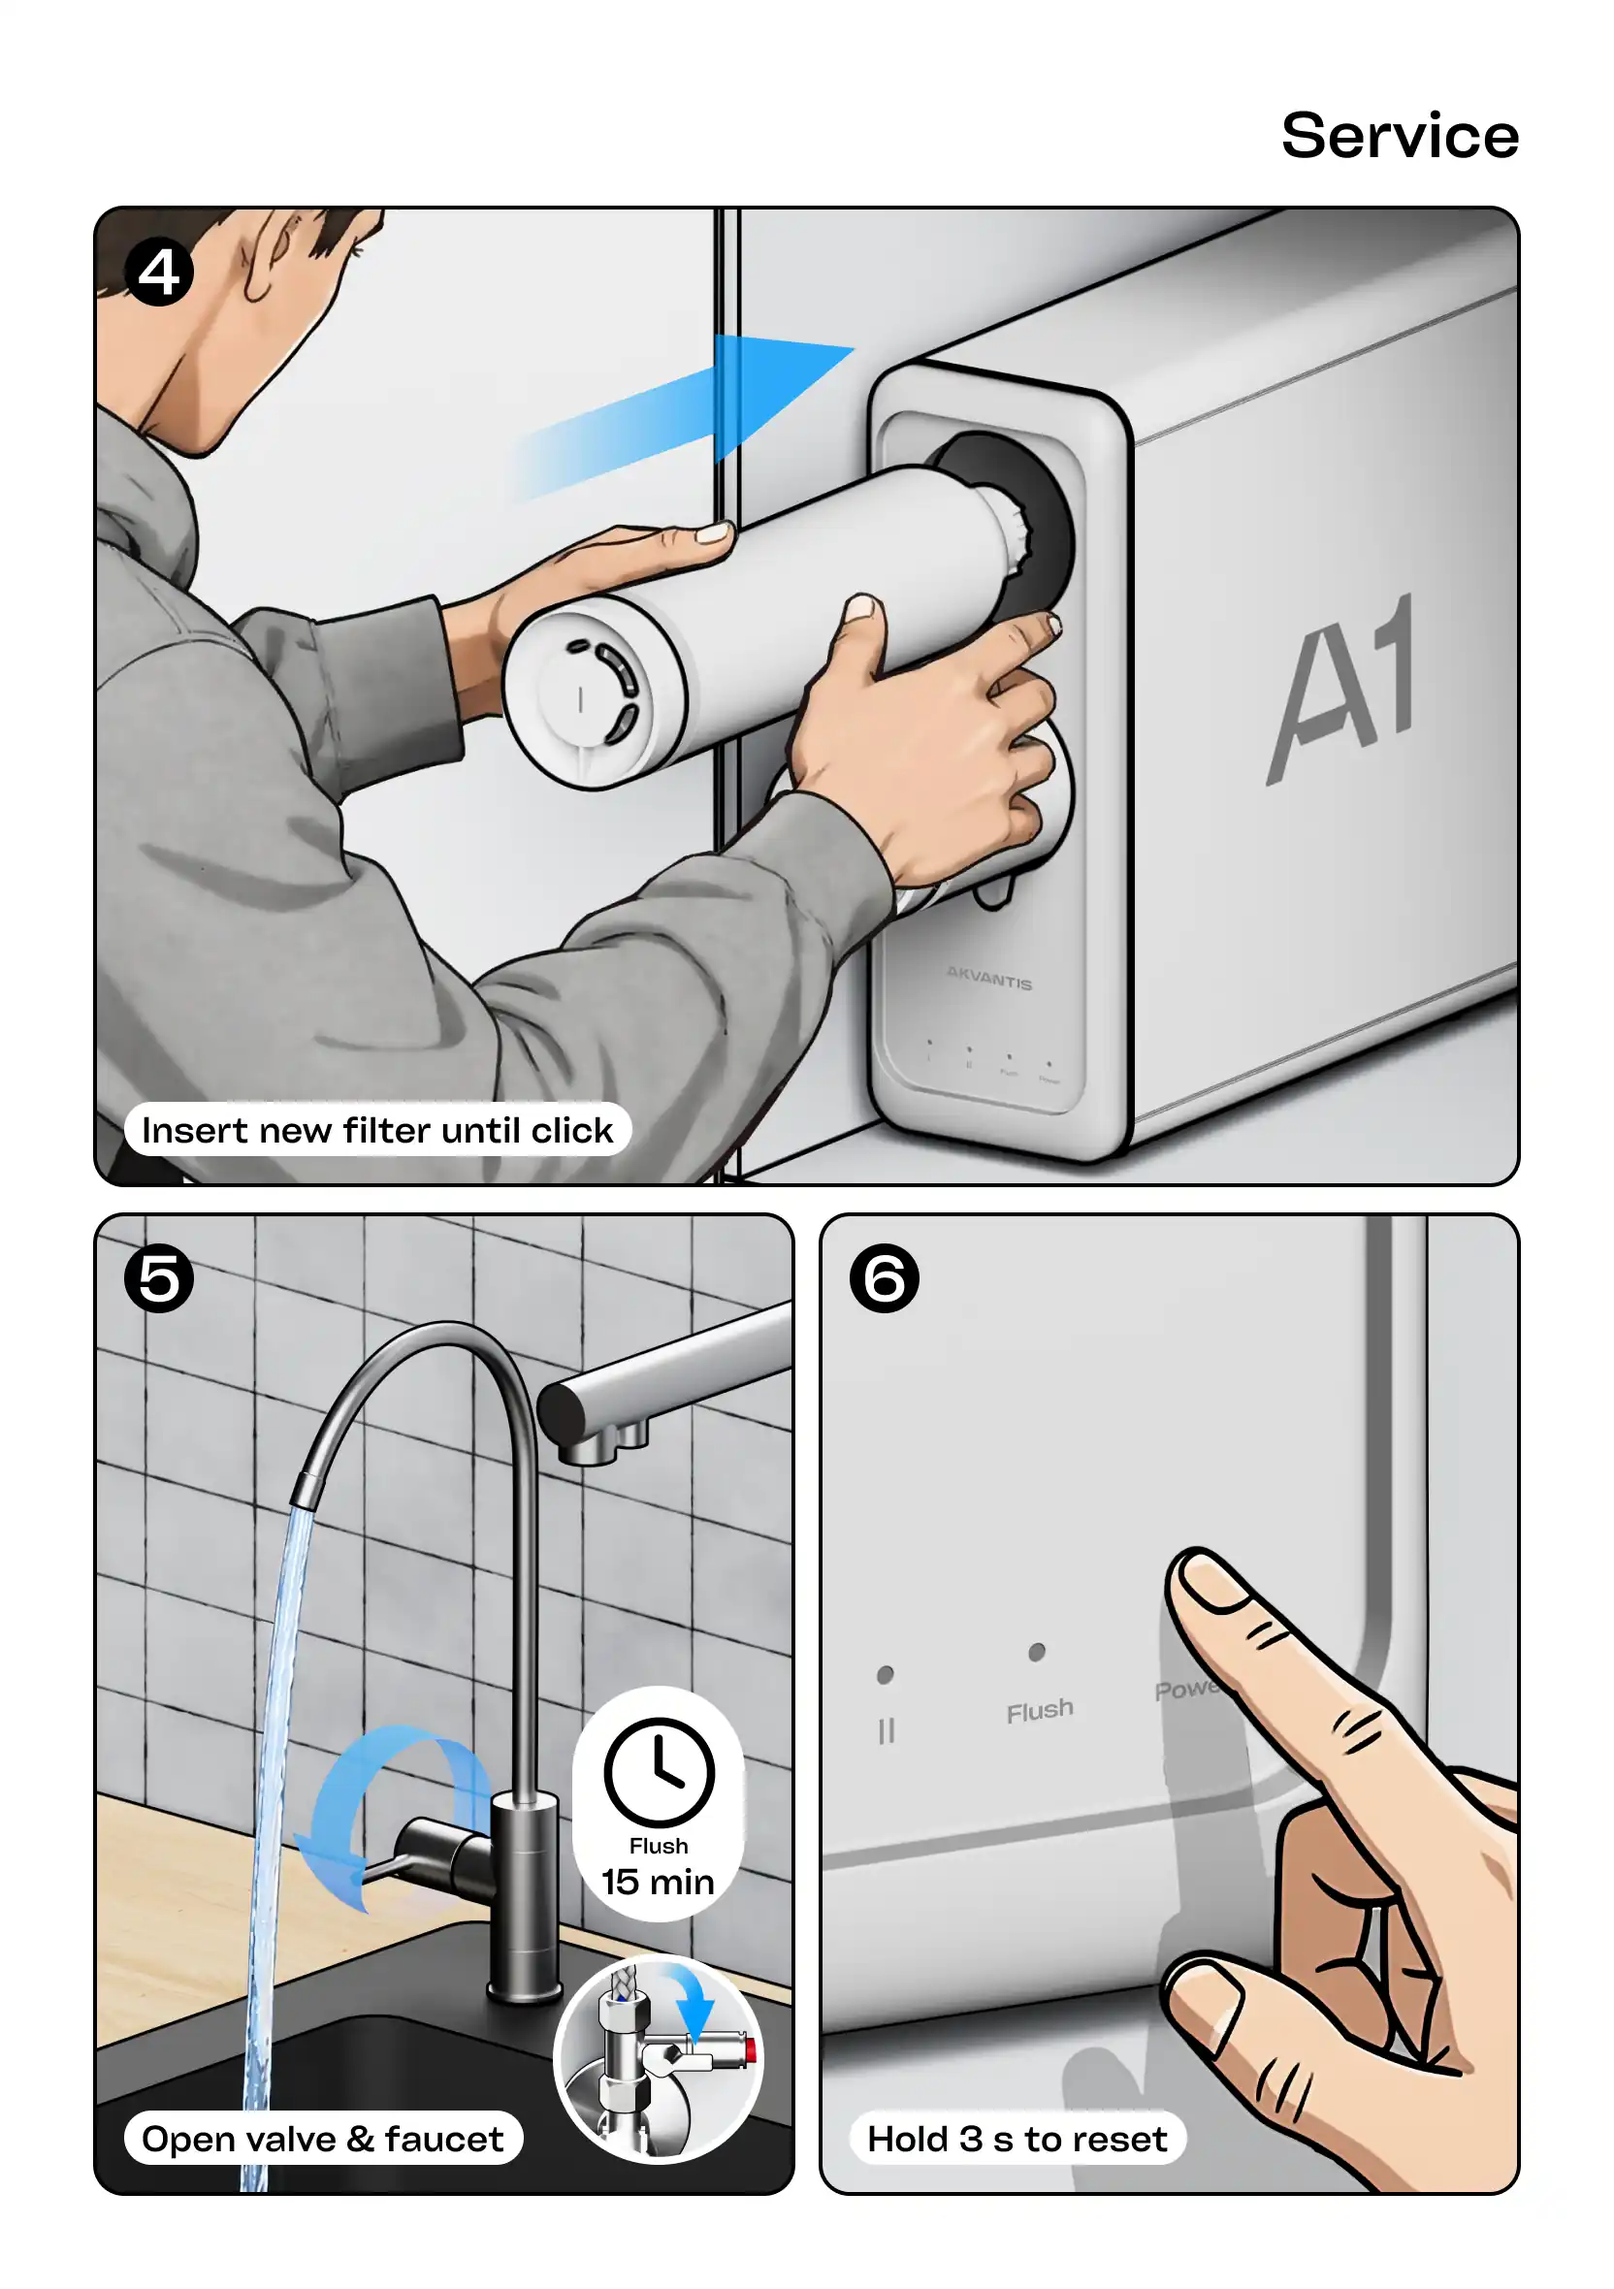
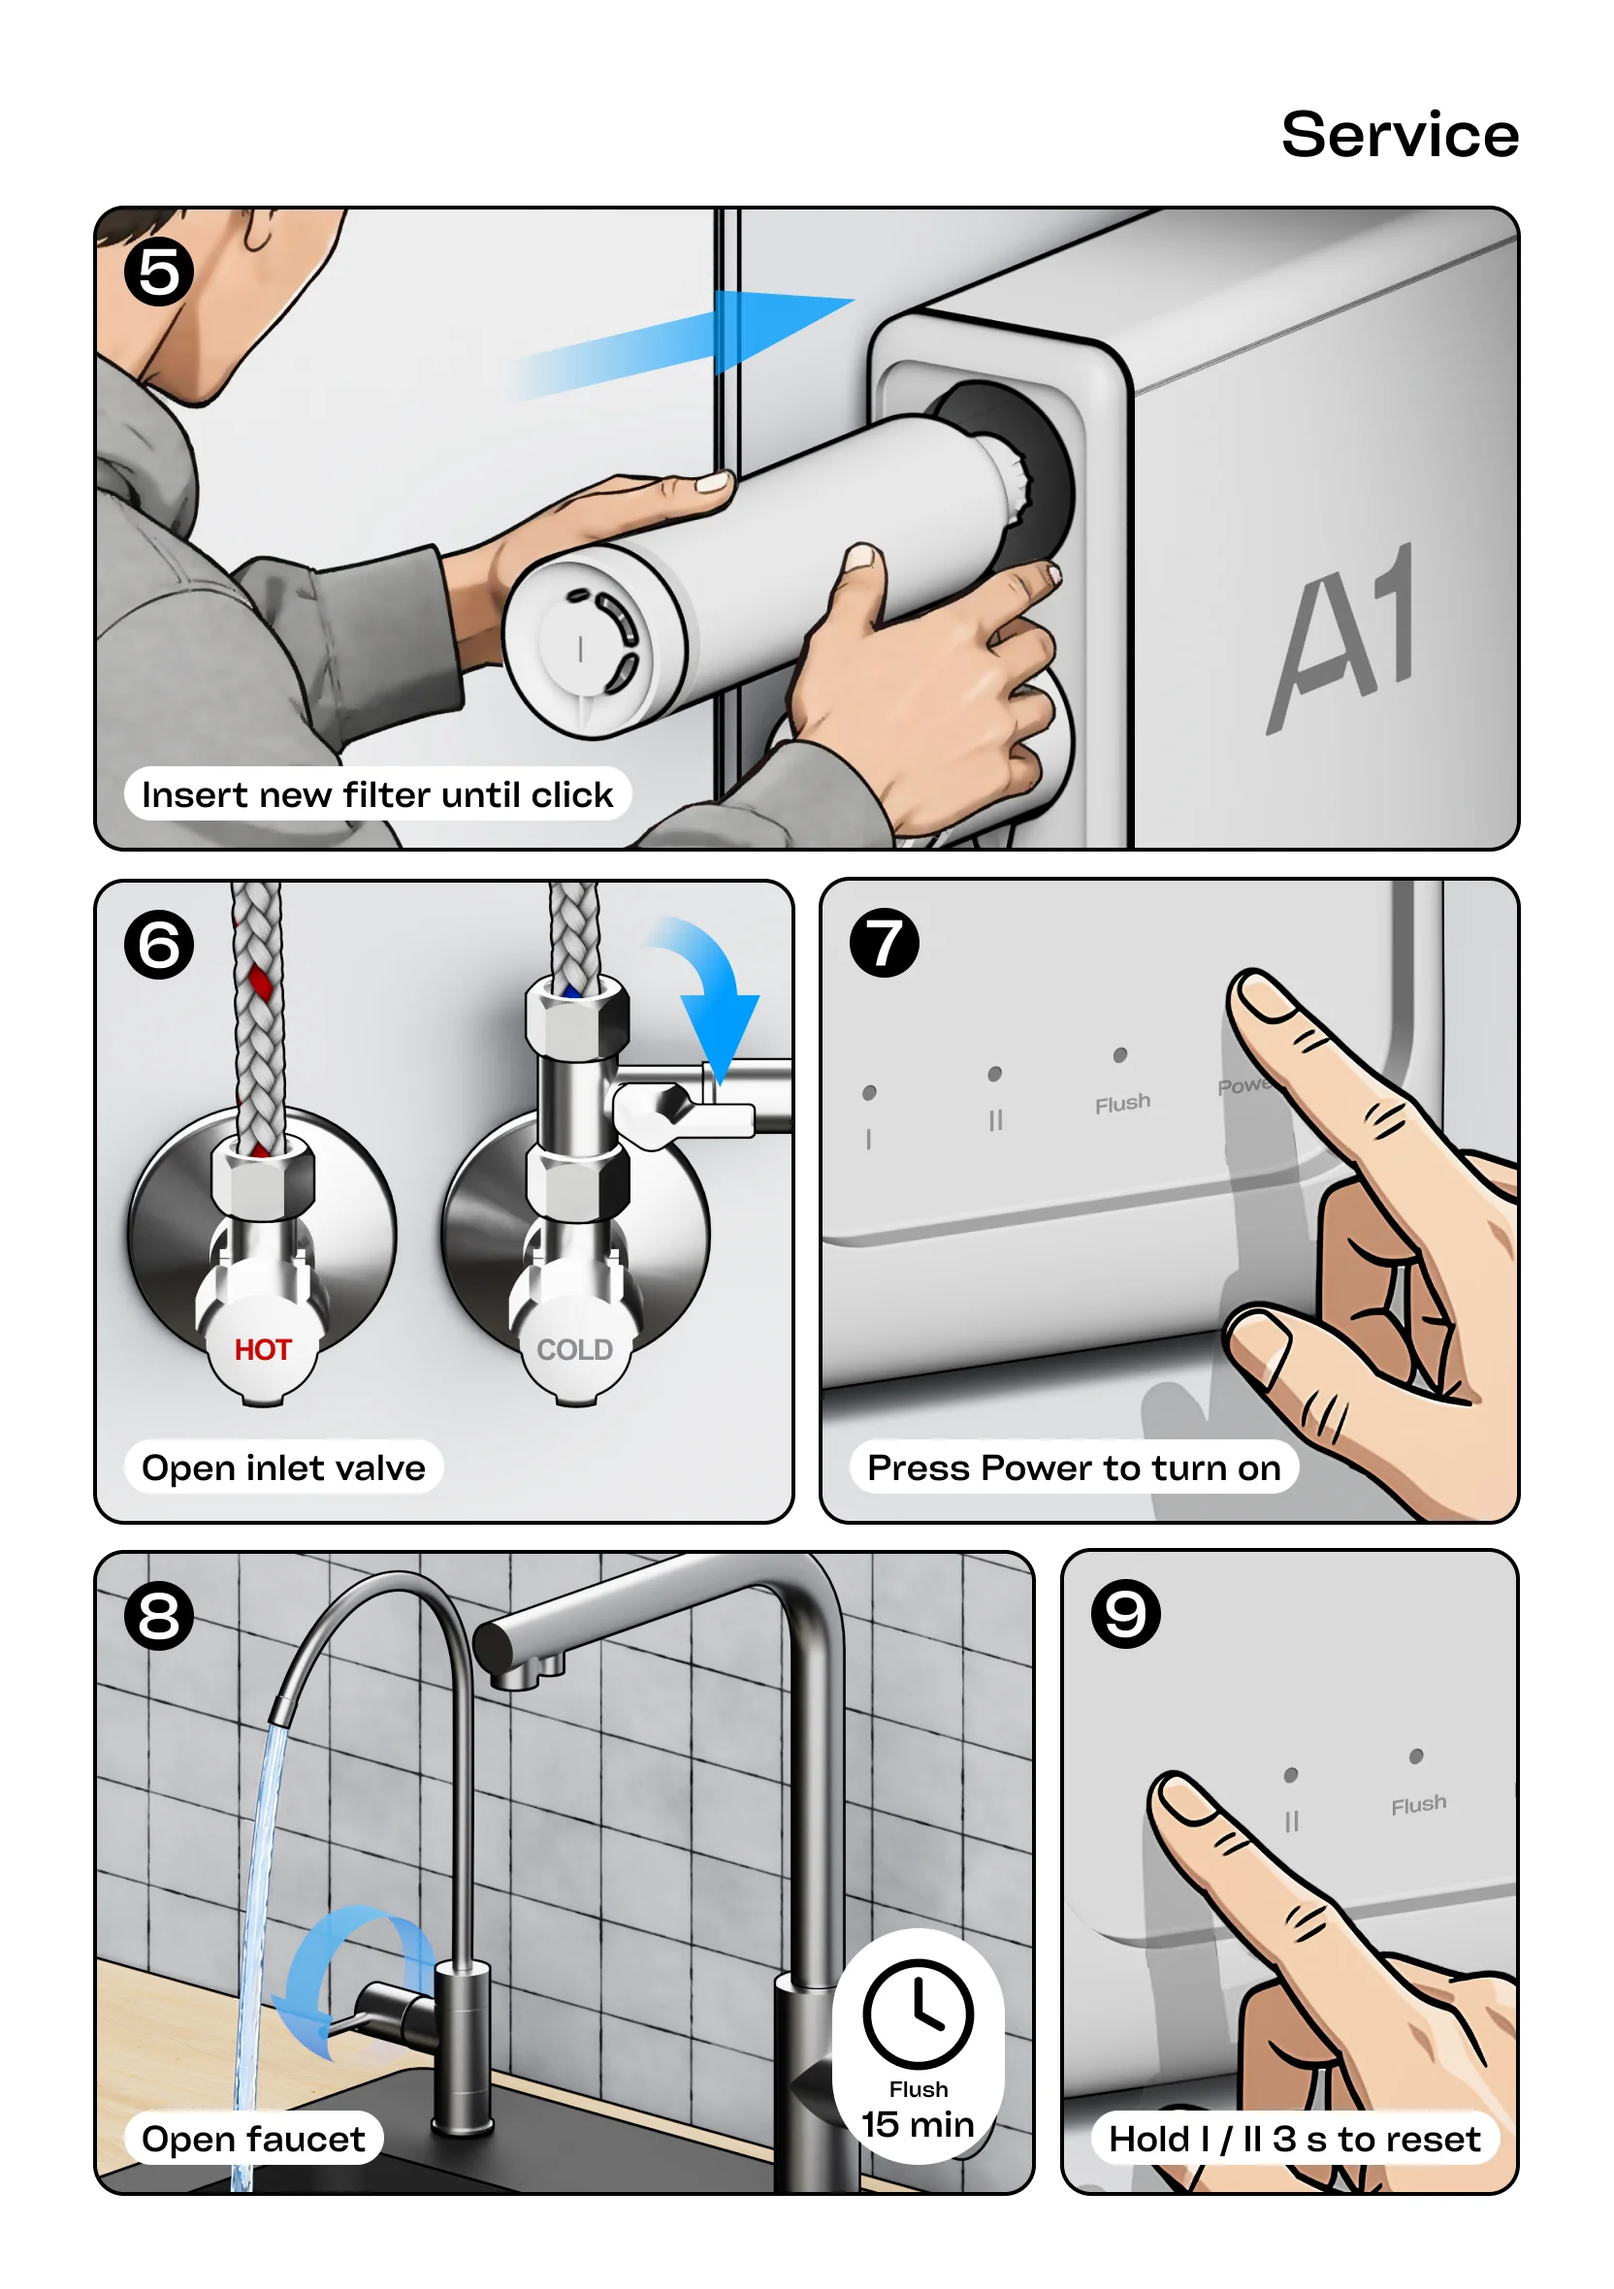
Service: new 9-step cartridge replacement (power off/on, reset I/II), new card art
Claude-Session: https://claude.ai/code/session_01Y5rAgwyEzpsn7ttbjcdp3c

diff --git a/public/assets/manual-data.js b/public/assets/manual-data.js
@@ -1350,9 +1350,18 @@ window.MANUAL_DATA = {
               "art": "assets/art/cards/p16-3.webp",
               "x": 0,
               "y": 519,
-              "w": 736,
+              "w": 299,
               "h": 507,
               "n": 3,
+              "caption": "Press Power to turn off"
+            },
+            {
+              "art": "assets/art/cards/p16-4.webp",
+              "x": 312,
+              "y": 519,
+              "w": 424,
+              "h": 507,
+              "n": 4,
               "caption": "Release old filter"
             }
           ]
@@ -1369,27 +1378,45 @@ window.MANUAL_DATA = {
               "x": 0,
               "y": 0,
               "w": 736,
-              "h": 506,
-              "n": 4,
+              "h": 333,
+              "n": 5,
               "caption": "Insert new filter until click"
             },
             {
               "art": "assets/art/cards/p17-2.webp",
               "x": 0,
-              "y": 519,
+              "y": 347,
               "w": 362,
-              "h": 507,
-              "n": 5,
-              "caption": "Open valve & faucet"
+              "h": 333,
+              "n": 6,
+              "caption": "Open inlet valve"
             },
             {
               "art": "assets/art/cards/p17-3.webp",
               "x": 374,
-              "y": 519,
+              "y": 346,
               "w": 362,
-              "h": 507,
-              "n": 6,
-              "caption": "Hold 3 s to reset"
+              "h": 334,
+              "n": 7,
+              "caption": "Press Power to turn on"
+            },
+            {
+              "art": "assets/art/cards/p17-4.webp",
+              "x": 0,
+              "y": 693,
+              "w": 486,
+              "h": 333,
+              "n": 8,
+              "caption": "Open faucet"
+            },
+            {
+              "art": "assets/art/cards/p17-5.webp",
+              "x": 499,
+              "y": 692,
+              "w": 237,
+              "h": 334,
+              "n": 9,
+              "caption": "Hold I / II 3 s to reset"
             }
           ]
         }

diff --git a/public/assets/manual-texts.js b/public/assets/manual-texts.js
@@ -170,10 +170,11 @@ window.MANUAL_TEXTS = {
     "service": [
       { "en": "Close inlet valve", "de": "Zulaufventil schließen", "uk": "Закрийте вхідний клапан" },
       { "en": "Open faucet until water stops", "de": "Hahn öffnen, bis kein Wasser mehr fließt", "uk": "Відкрийте кран, доки не стече вода" },
+      { "en": "Press Power to turn off", "de": "Power drücken zum Ausschalten", "uk": "Натисніть Power, щоб вимкнути" },
       { "en": "Release old filter", "de": "Alte Kartusche entriegeln", "uk": "Вивільніть старий картридж" },
       { "en": "Insert new filter until click", "de": "Neue Kartusche einsetzen, bis sie einrastet", "uk": "Вставте новий картридж до клацання" },
-      { "en": "Open valve & faucet", "de": "Ventil & Wasserhahn öffnen", "uk": "Відкрийте клапан і кран" },
-      { "en": "Hold 3 s to reset", "de": "Zum Zurücksetzen 3 s halten", "uk": "Утримуйте 3 с для скидання" }
+      { "en": "Press Power to turn on", "de": "Power drücken zum Einschalten", "uk": "Натисніть Power, щоб увімкнути" },
+      { "en": "Hold I / II 3 s to reset", "de": "I / II 3 s halten zum Zurücksetzen", "uk": "Утримуйте I / II 3 с для скидання" }
     ],
     "troubleshooting": [
       { "en": "Issue", "de": "Problem", "uk": "Проблема" },

diff --git a/public/a1-manual.html b/public/a1-manual.html
@@ -901,8 +901,8 @@ html.is-specimen[data-media="screen"] .r-bar.header{position:relative;transform:
 
 <div class="r-guides" aria-hidden="true"><i></i><i></i><i></i><i></i><i></i><i></i><i></i><i></i><i></i><i></i><i></i><i></i><i></i><i></i><i></i><i></i><i></i><i></i><i></i><i></i></div>
 
-<script src="assets/manual-data.js?v=17d217b1"></script>
-<script src="assets/manual-texts.js?v=add2c5ff"></script>
+<script src="assets/manual-data.js?v=4bbc6abb"></script>
+<script src="assets/manual-texts.js?v=74e24ec5"></script>
 <script src="assets/manual-render.js?v=17841b13"></script>
 <script>
 (function(){

diff --git a/public/index.html b/public/index.html
@@ -119,7 +119,7 @@ body{background:var(--black);color:var(--white);font-family:var(--font-primary);
 <!-- three.js r128 — the same build the constructor uses; without it (or without WebGL) the booklet is the flat one -->
 <script src="https://cdnjs.cloudflare.com/ajax/libs/three.js/r128/three.min.js"></script>
 <script src="assets/sheet3d.js?v=7"></script>
-<script src="assets/manual-data.js?v=17d217b1"></script>
+<script src="assets/manual-data.js?v=4bbc6abb"></script>
 <script>
 (function(){
   'use strict';
